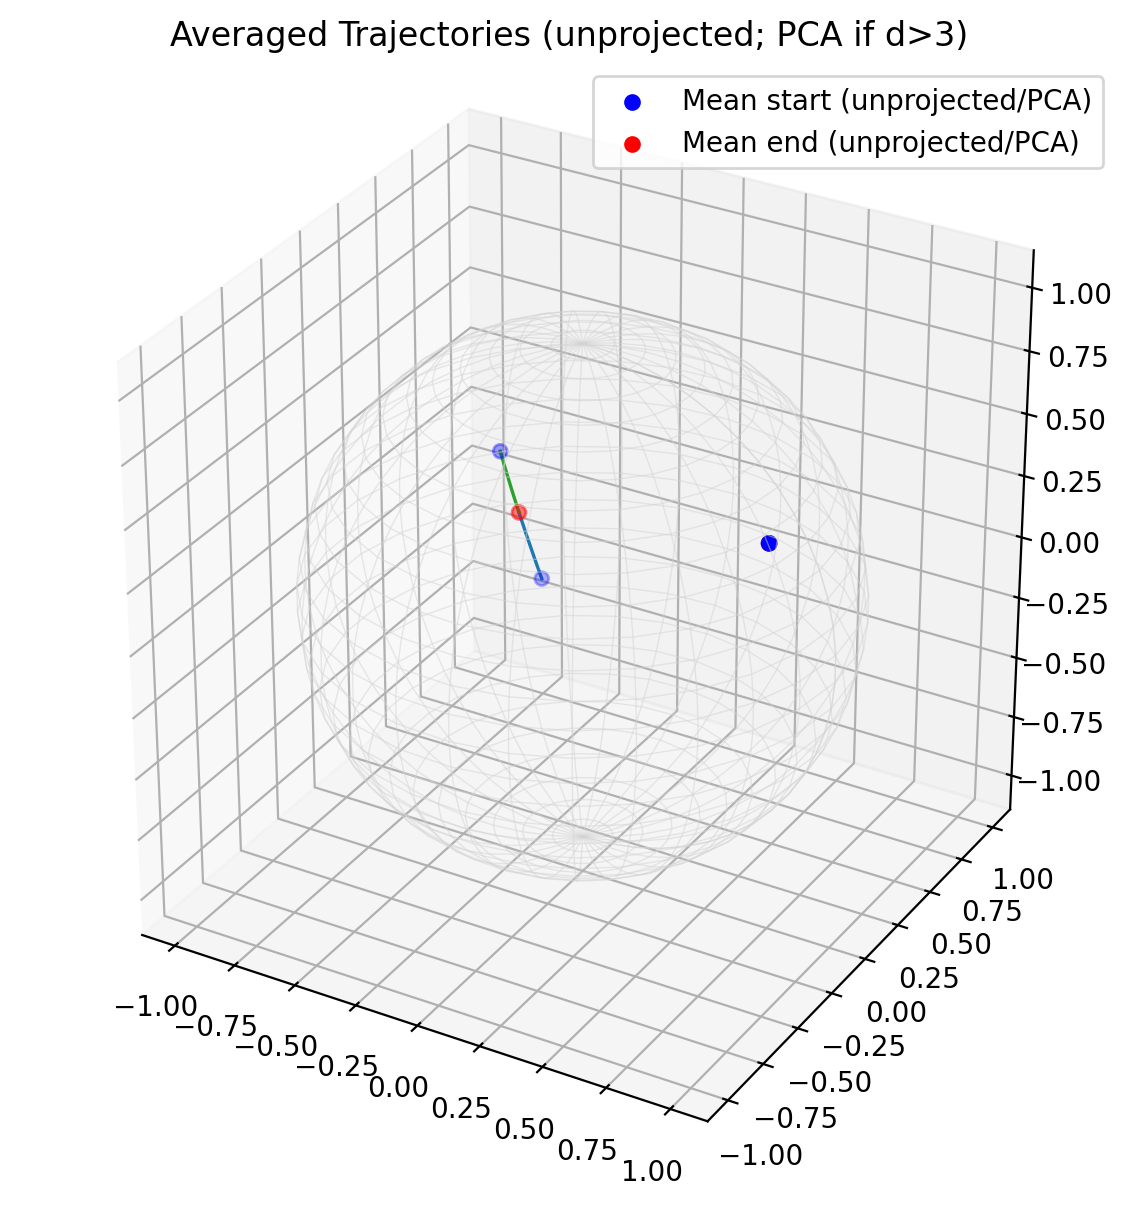
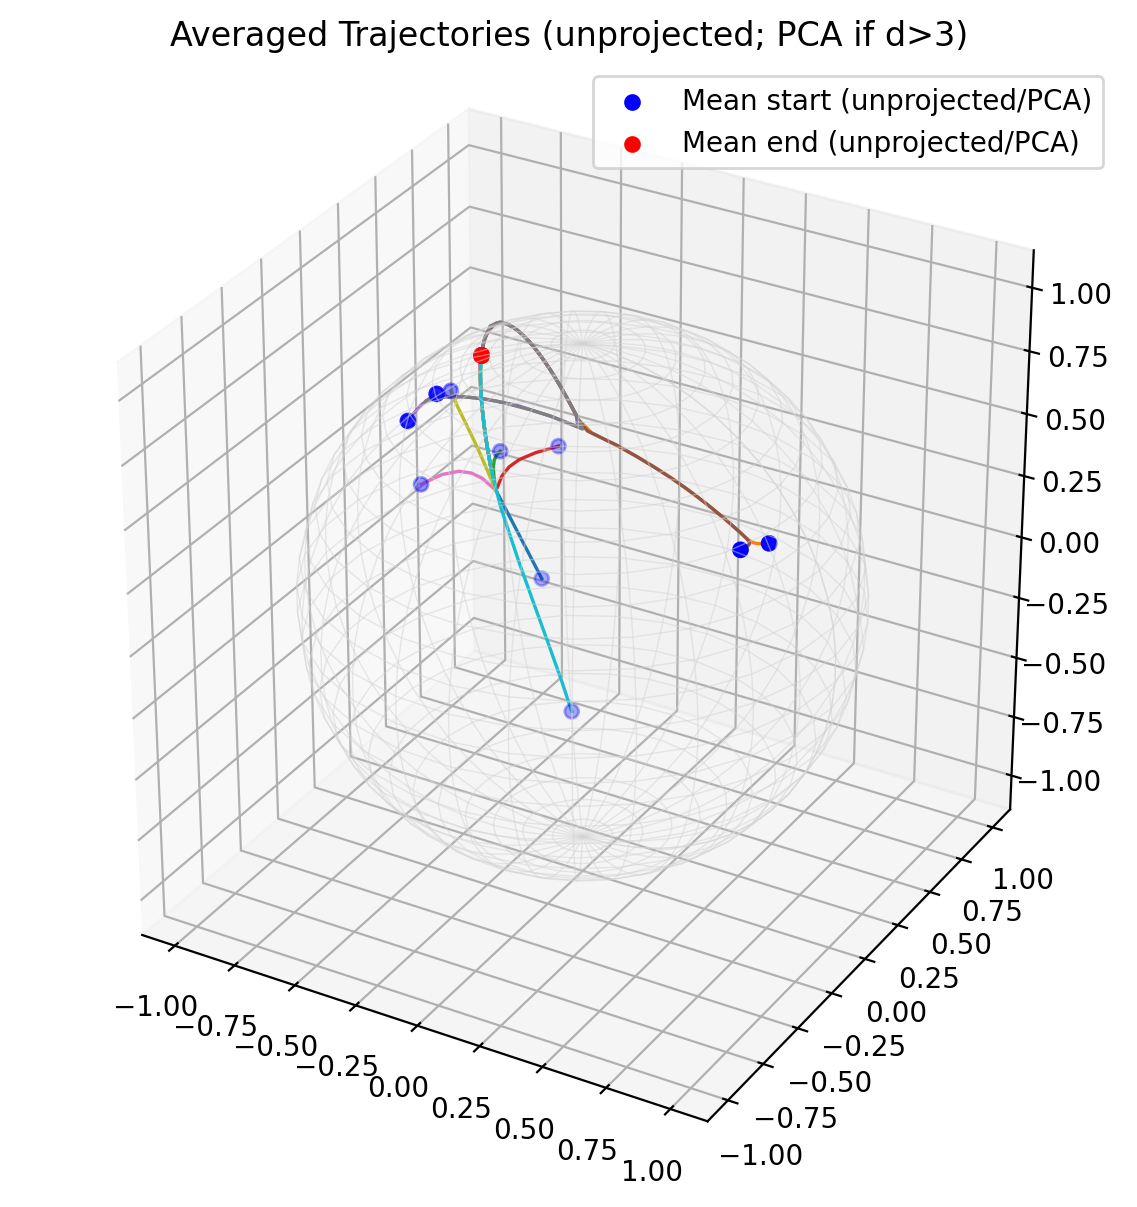
intrinsic mean trajectory fixed

diff --git a/bm_updated.py b/bm_updated.py
@@ -172,8 +172,26 @@ def simulate_intrinsic_noise(n, d, T, dt, b, Q, K, V_mat, sigma0,
 
         all_traj[r] = traj
 
-    # Average trajectory across runs 
-    mean_traj = all_traj.mean(axis=0)  # (kept, n, d)
+    # Average trajectory over runs  (replaced by intrinsic mean over runs)
+    # mean_traj = all_traj.mean(axis=0)  # (kept, n, d)
+
+    # intrinsic mean over runs (per time, per agent) with warm start + incremental refine
+    # a final stricter refine on the last frame
+    mean_traj = np.zeros((kept, n, d), dtype=float)
+    # warm start at t=0 for each agent
+    for i in range(n):
+        pts0 = all_traj[:, 0, i, :]                       # (runs, d)
+        mean_traj[0, i] = intrinsic_mean_Sd(pts0, tol=1e-10, max_iter=50)
+    # incremental refine across stored frames
+    for t in range(1, kept):
+        for i in range(n):
+            pts_t = all_traj[:, t, i, :]                  # (runs, d)
+            u_prev = mean_traj[t-1, i]
+            mean_traj[t, i] = intrinsic_mean_refine(u_prev, pts_t, iters=mean_refine_steps, step=1.0)
+    # final stricter refine on the last stored frame
+    for i in range(n):
+        pts_last = all_traj[:, -1, i, :]
+        mean_traj[-1, i] = intrinsic_mean_Sd(pts_last, tol=1e-12, max_iter=200)
 
     final_positions = all_traj[:, -1, :, :]  # (runs, n, d)
 
@@ -186,11 +204,11 @@ def euclidean_distance(x, y):
 
 # ----------  Convergence check & plots ----------
 if __name__ == "__main__":
-    n, d = 3 ,3
-    T, dt = 200.0, 0.005
+    n, d = 10, 3
+    T, dt = 600.0, 0.005
     # b, sigma0 = 1.0, 0.2
-    b, sigma0 = 9.0, 0.0
-    runs = 1
+    b, sigma0 = 6.0, 0.05
+    runs = 10
     
     init_seed = 30
     outdir = "plots"  
@@ -225,19 +243,19 @@ if __name__ == "__main__":
         else:
             consensus_point = center_raw
         print("Converged.")
-        print("Consensus mean vector (unprojected):", center_raw)
+        print("Consensus mean vector:", center_raw)
     else:
         print("System did not converge.")
 
-    # Plot max pairwise distance of the unprojected mean
+    # Plot max pairwise distance of the mean
     fig1 = plt.figure(figsize=(7,4))
-    plt.plot(times, delta, lw=1.5, label="Max pairwise distance (unprojected mean)")
+    plt.plot(times, delta, lw=1.5, label="Max pairwise distance (mean)")
     plt.axhline(threshold, color='red', ls='--', label="Threshold 1e-2")
     plt.yscale('log')
     plt.xlabel("Time"); plt.ylabel("Max pairwise distance")
-    plt.title("Convergence of Averaged (Unprojected) Trajectories")
+    plt.title("Convergence of Averaged Trajectories")
     plt.grid(True); plt.legend(); plt.tight_layout(); 
-    fig1.savefig(os.path.join(outdir, f"convergence_seed{init_seed}_metastable_new.png"),
+    fig1.savefig(os.path.join(outdir, f"convergence_seed{init_seed}_n=10_d=3_smallsigma.png"),
                  dpi=200, bbox_inches="tight")
     #fig1.savefig("test0.png", dpi=200, bbox_inches="tight")
     plt.show()
@@ -284,14 +302,14 @@ if __name__ == "__main__":
             Pend= pca_transform(mean_traj[-1], mu_mt, W_mt)    # (n,3)
 
         ax.scatter(P0[:,0],  P0[:,1],  P0[:,2],
-                   color='blue', s=25, label='Mean start (unprojected/PCA)')
+                   color='blue', s=25, label='Mean start (PCA)')
         ax.scatter(Pend[:,0], Pend[:,1], Pend[:,2],
-                   color='red',  s=25, label='Mean end (unprojected/PCA)')
+                   color='red',  s=25, label='Mean end (PCA)')
 
         ax.set_box_aspect([1,1,1])
-        ax.set_title("Averaged Trajectories (unprojected; PCA if d>3)")
+        ax.set_title("Averaged Trajectories (PCA if d>3)")
         ax.legend(); plt.tight_layout()
-        fig2.savefig(os.path.join(outdir, f"avg_traj_3d_seed{init_seed}_metastable_new.png"),
+        fig2.savefig(os.path.join(outdir, f"avg_traj_3d_seed{init_seed}_n=10_d=3_smallsigma.png"),
                      dpi=200, bbox_inches="tight")
         plt.show()
     # if d > 3 use PCA
@@ -320,7 +338,7 @@ if __name__ == "__main__":
                        label=f'Final positions (particle {particle_idx})', zorder=3)
 
             ax.scatter([raw_mean[0]], [raw_mean[1]], [raw_mean[2]],
-                       marker='x', s=120, color='red', label='Mean (unprojected/PCA)',
+                       marker='x', s=120, color='red', label='Mean (PCA)',
                        depthshade=False, zorder=9)
 
             ax.set_box_aspect([1, 1, 1])
@@ -344,6 +362,6 @@ if __name__ == "__main__":
             ax.legend(loc='upper left')
 
         plt.tight_layout()
-        fig3.savefig(os.path.join(outdir, f"final_positions_particle{particle_idx}_seed{init_seed}_metastable_new.png"),
+        fig3.savefig(os.path.join(outdir, f"final_positions_particle{particle_idx}_seed{init_seed}_n=10_d=3_smallsigma.png"),
                      dpi=200, bbox_inches="tight")
         plt.show()
